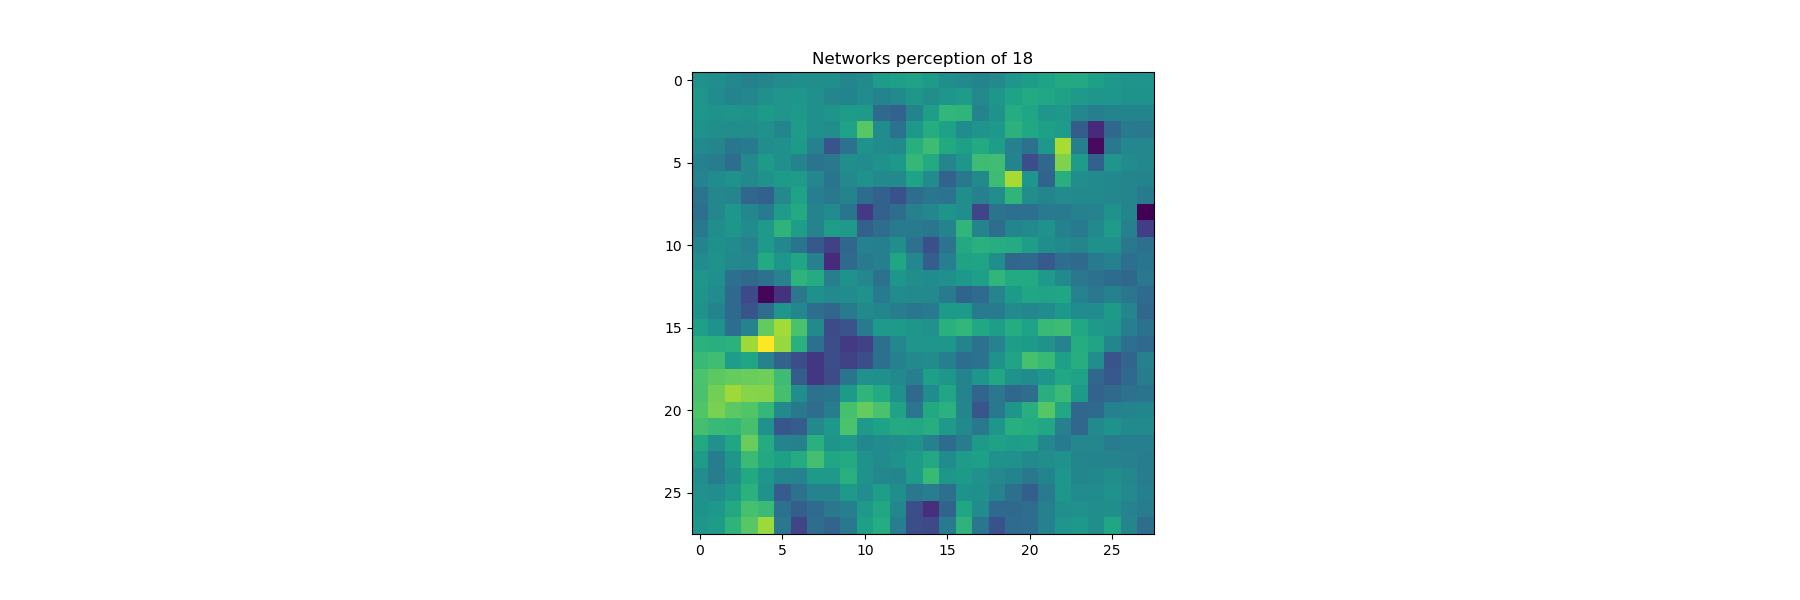
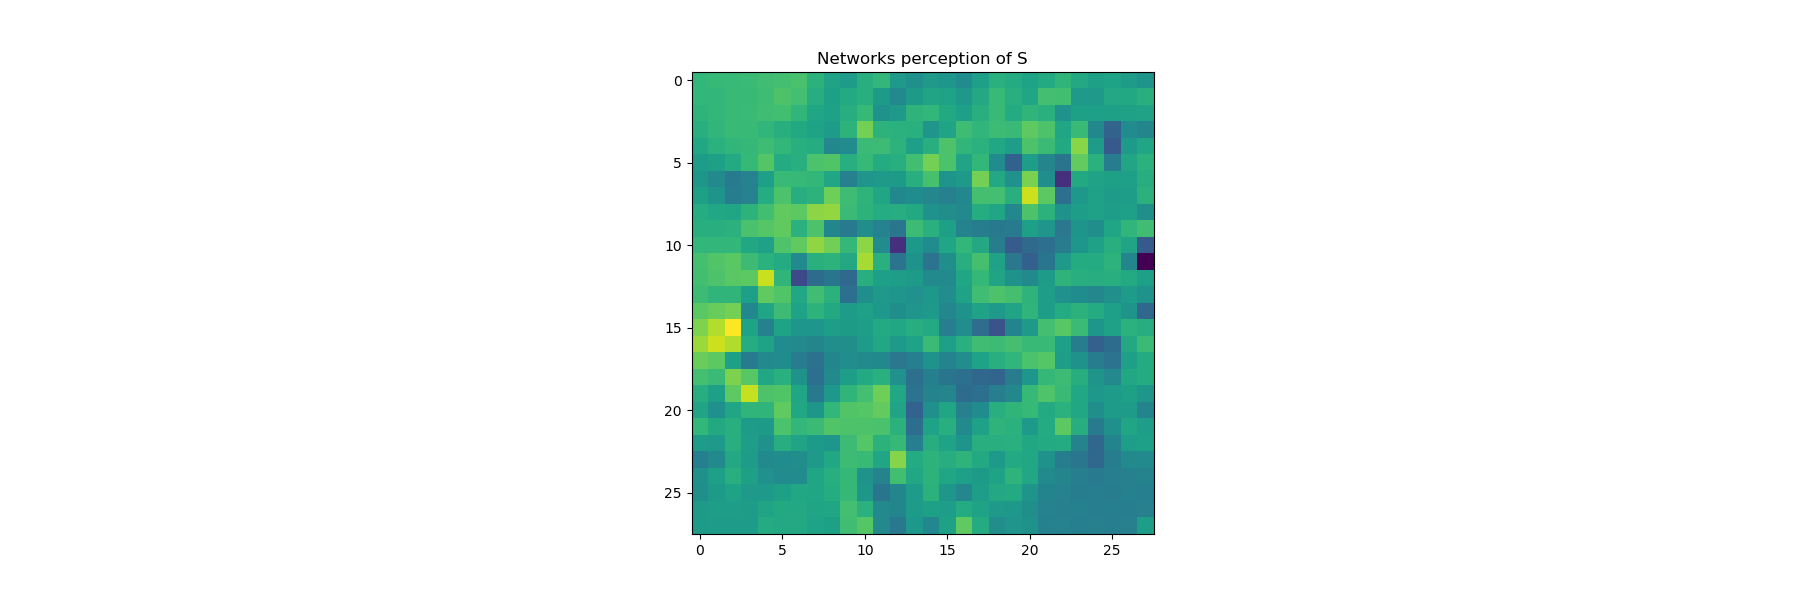
new

Changed region(s): [[0.3733, 0.09, 0.6533, 0.9]]

diff --git a/activation_maximization.py b/activation_maximization.py
@@ -32,10 +32,13 @@ img = visualize_activation(model, layer_idx, filter_indices=filter_idx)
 plt.imshow(img[..., 0])
 plt.savefig('foo.png')
 
+import string
+
+s = string.ascii_uppercase
 
 for output_idx in np.arange(26):
     img = visualize_activation(model, layer_idx, filter_indices=output_idx, input_range=(0., 1.))
     plt.figure()
-    plt.title('Networks perception of {}'.format(output_idx))
+    plt.title(f'Networks perception of {s[output_idx]}')
     plt.imshow(img[..., 0])
     plt.savefig(f'{output_idx}.png')
